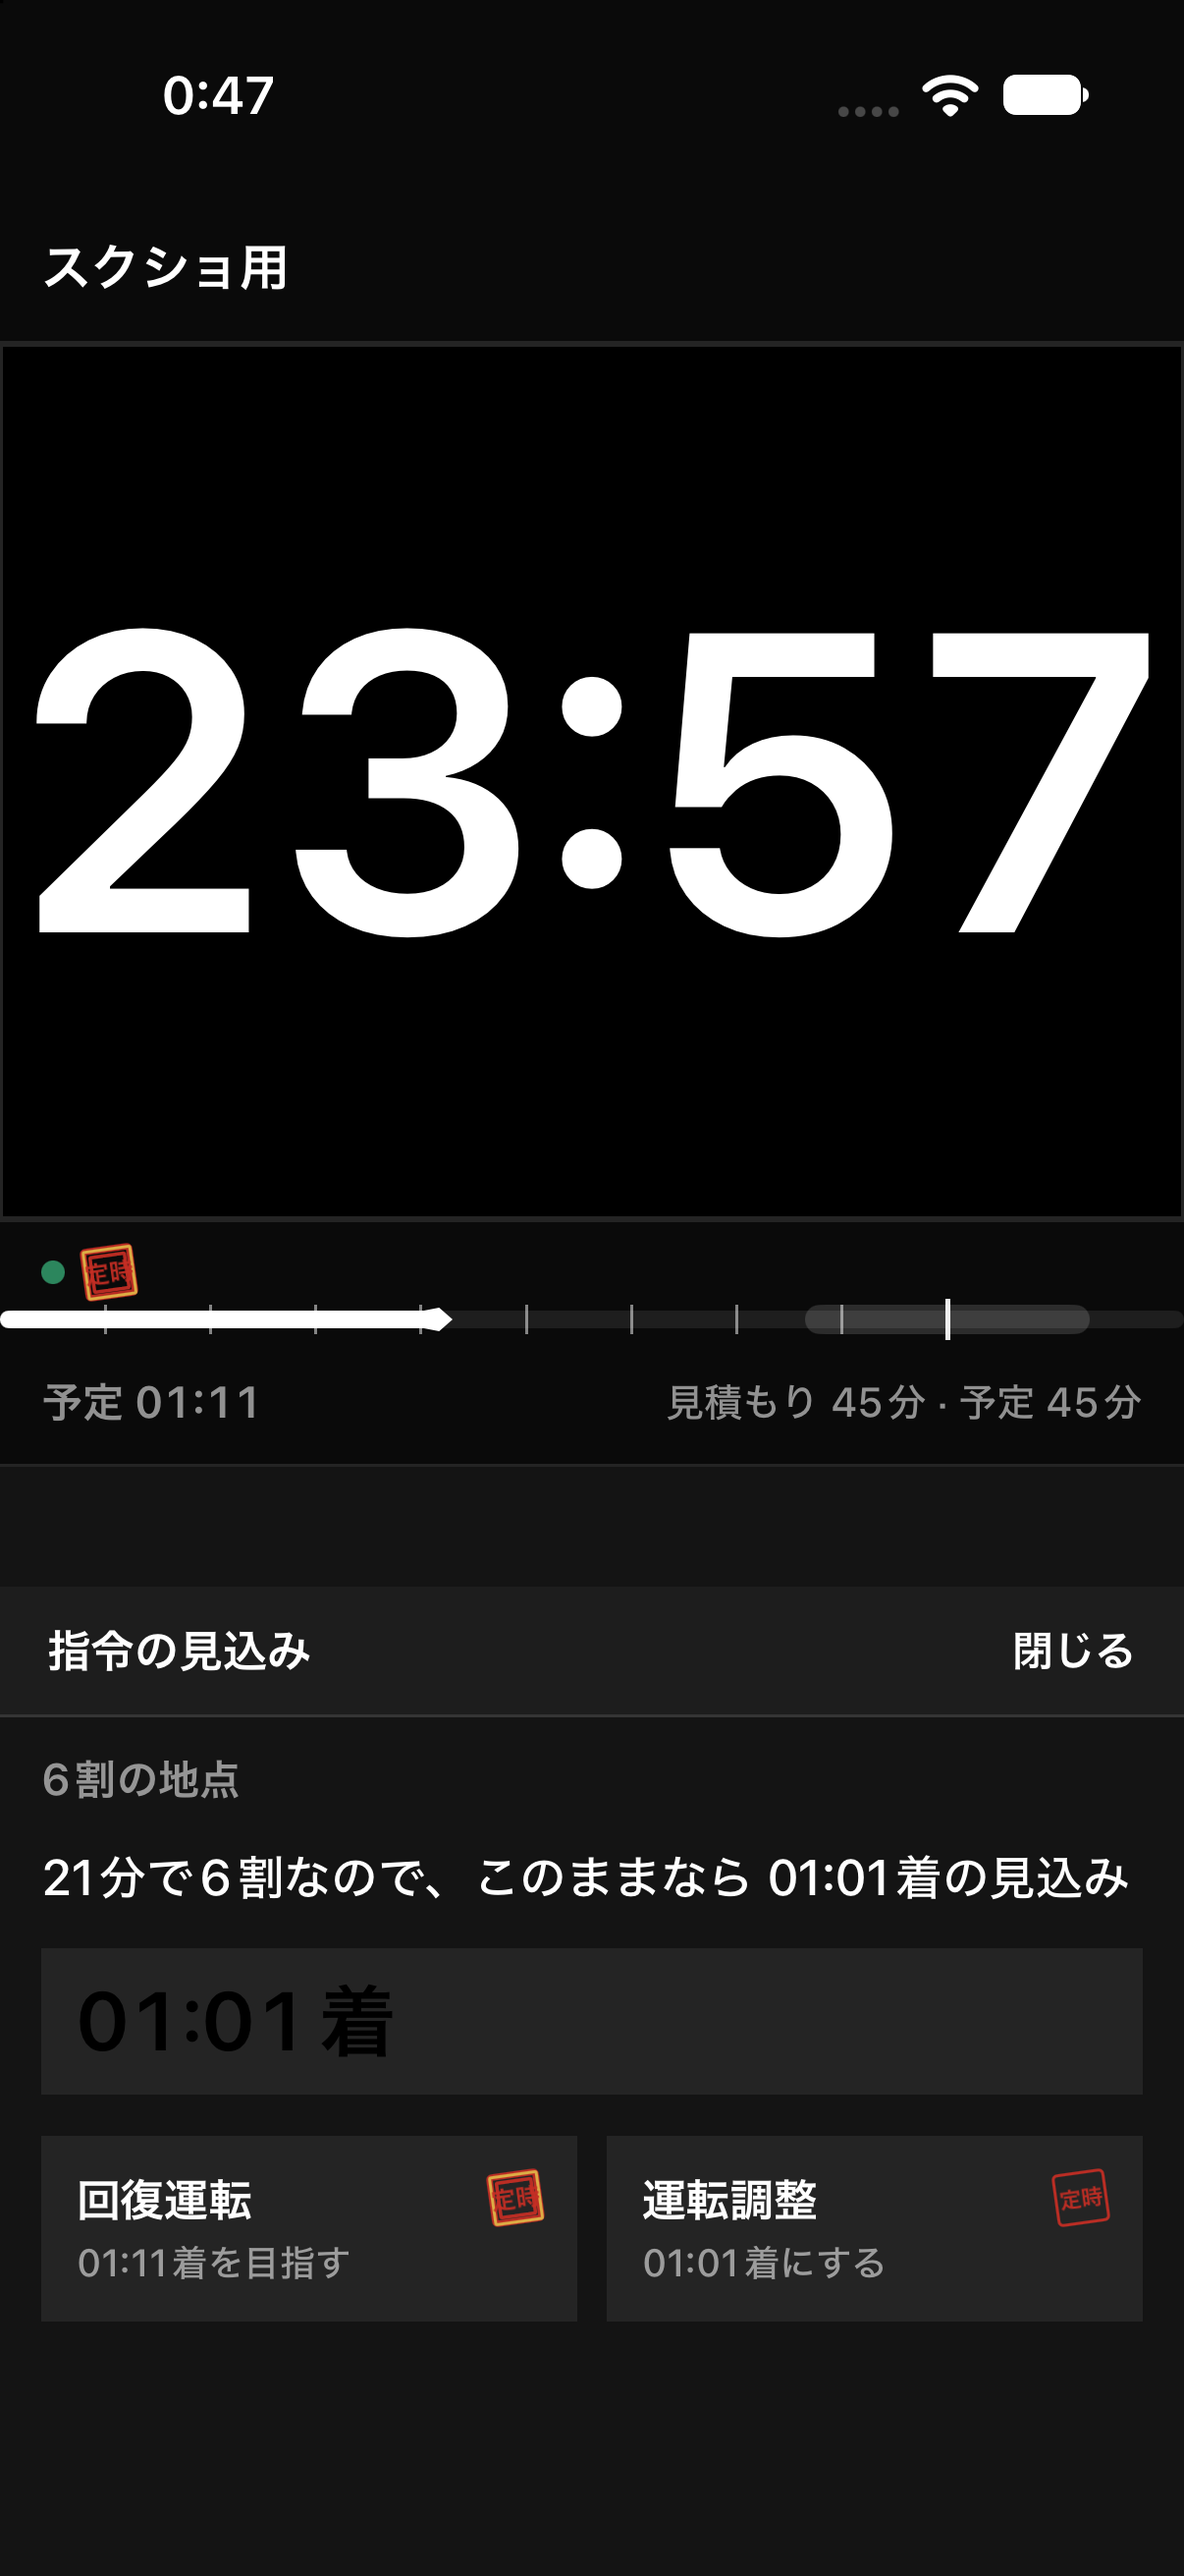
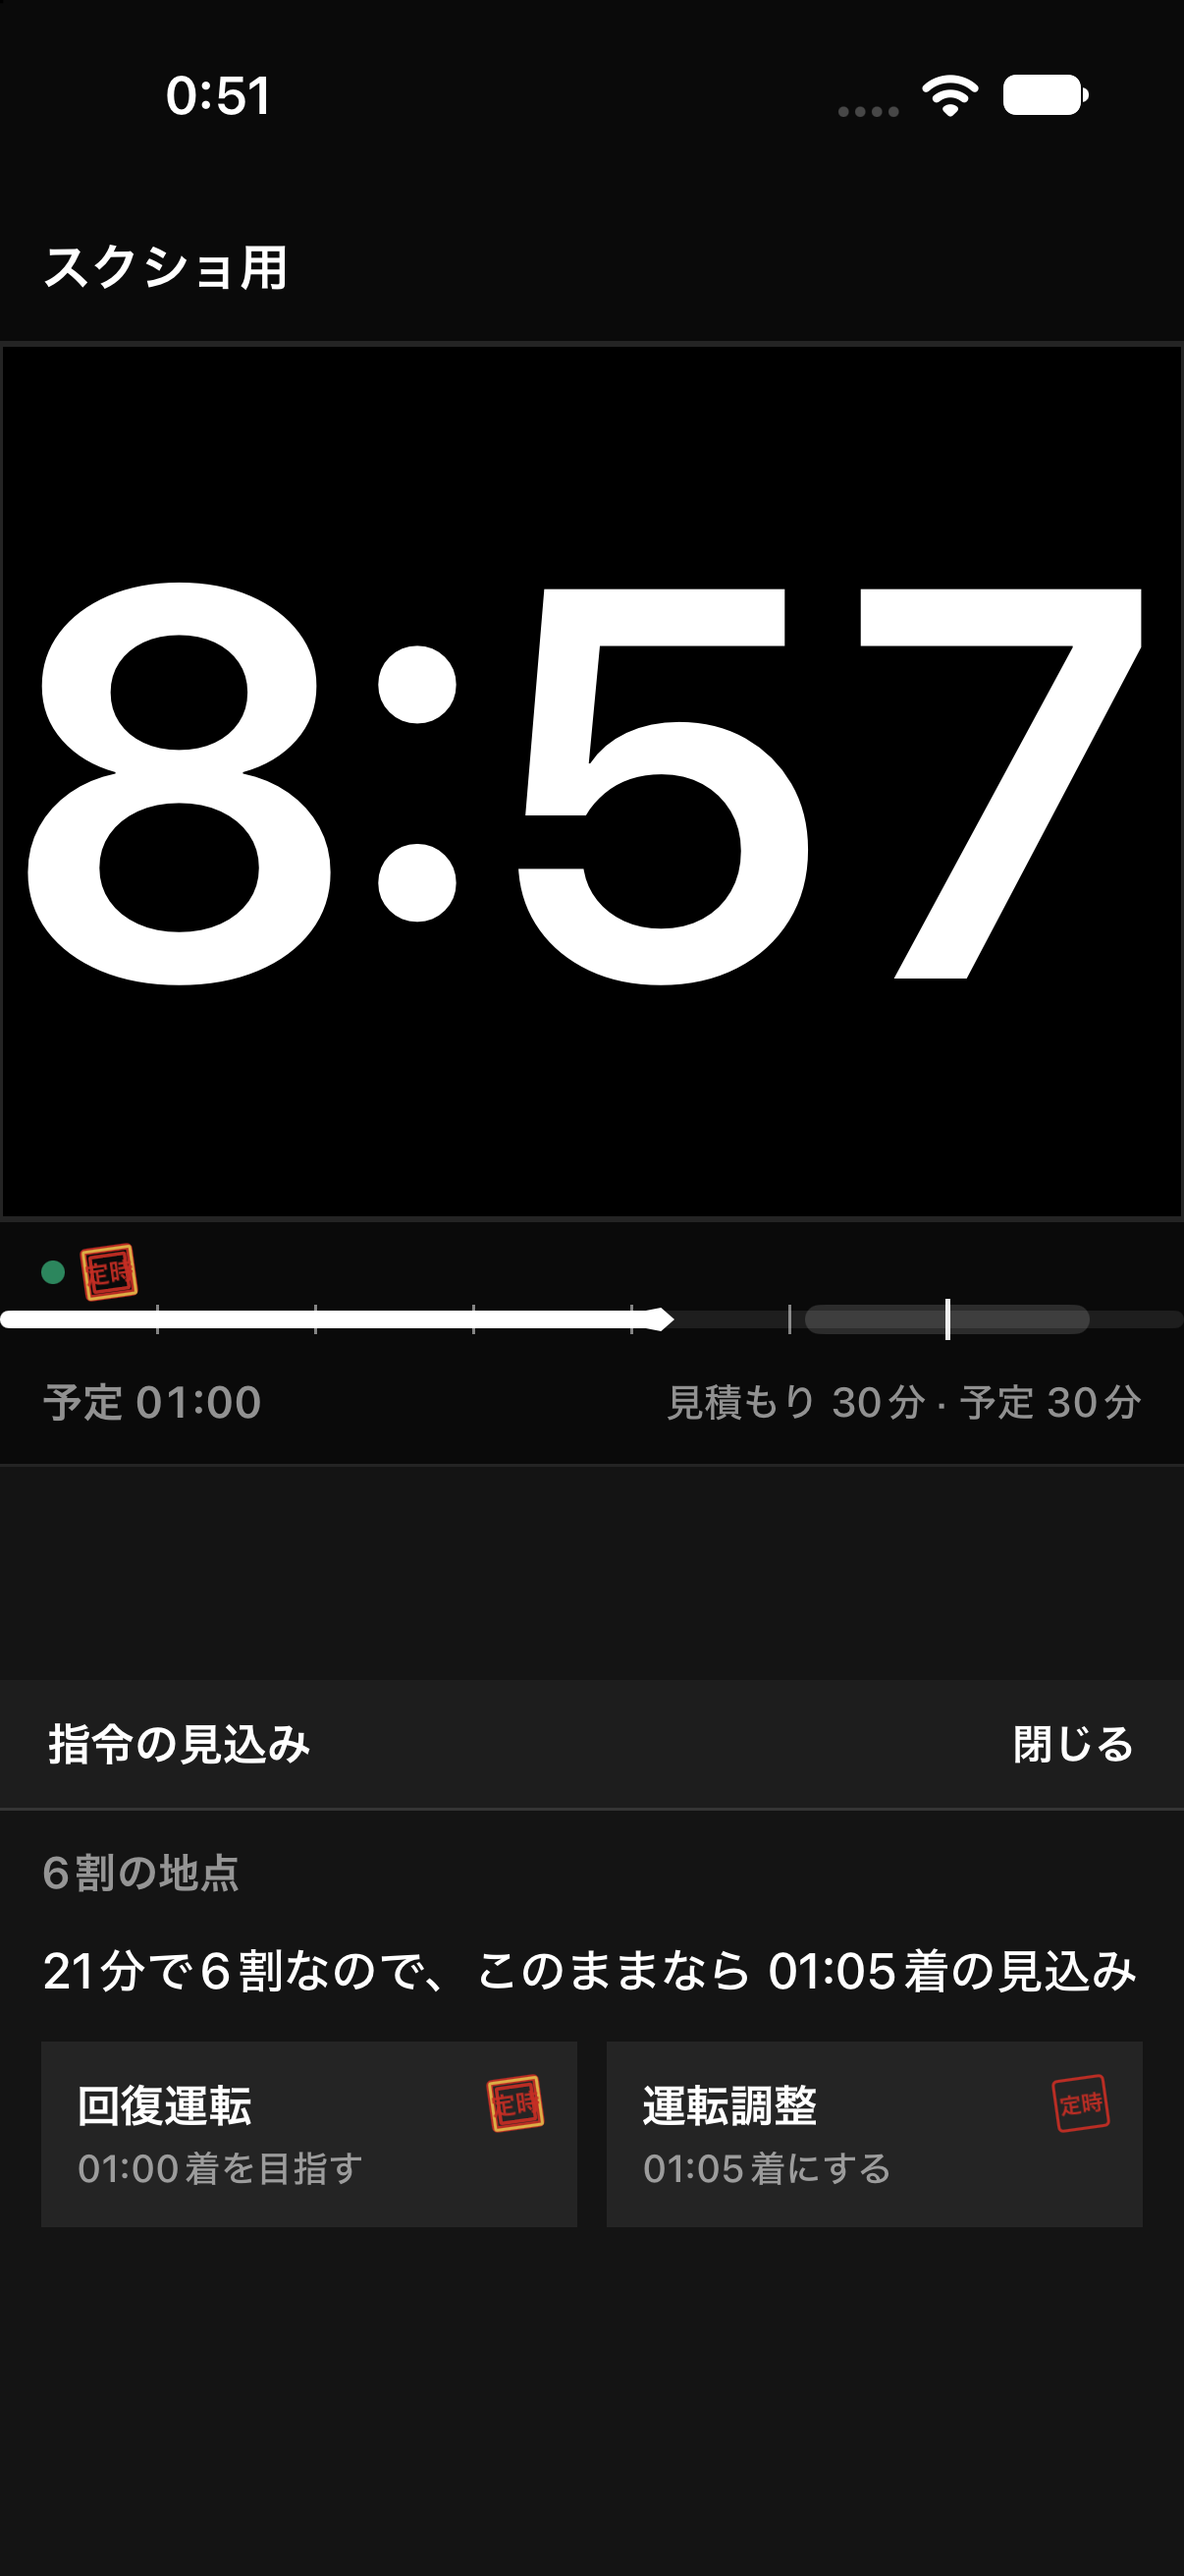
fix(focus): hide recovery in overtime and trim declare UI
Add PositionReport.showsRecoveryDeclaration for past-original-schedule
checks, use original scheduled arrival for recovery captions, drop the
duplicate projected time plate, and set declare preview to 30min/35min.

diff --git a/Todo train/Features/Focus/FocusReestimatePanel.swift b/Todo train/Features/Focus/FocusReestimatePanel.swift
@@ -10,6 +10,7 @@ import TodoTrainTicketUI
 struct FocusReestimatePanel: View {
     let activeSeconds: TimeInterval
     let remainingSeconds: TimeInterval
+    let plannedBudgetSeconds: Int
     let judgment: PunctualityJudgment.Judgment
     let recoverySealLuxury: Double?
     let now: Date
@@ -33,6 +34,7 @@ struct FocusReestimatePanel: View {
     init(
         activeSeconds: TimeInterval,
         remainingSeconds: TimeInterval,
+        plannedBudgetSeconds: Int,
         judgment: PunctualityJudgment.Judgment,
         recoverySealLuxury: Double?,
         now: Date,
@@ -43,6 +45,7 @@ struct FocusReestimatePanel: View {
     ) {
         self.activeSeconds = activeSeconds
         self.remainingSeconds = remainingSeconds
+        self.plannedBudgetSeconds = plannedBudgetSeconds
         self.judgment = judgment
         self.recoverySealLuxury = recoverySealLuxury
         self.now = now
@@ -180,16 +183,24 @@ struct FocusReestimatePanel: View {
                 ))
                 .font(.body.weight(.medium))
                 .foregroundStyle(FocusPanel.ink)
+                .accessibilityHint("走行時間と答えた割合から出した見込みです。")
 
-                projectedArrivalPlate(projectedArrival)
-
-                HStack(spacing: 10) {
-                    declarationCell(
-                        title: "回復運転",
-                        caption: PositionReportWording.recoveryCaption(arrival: scheduledArrival),
-                        sealLuxury: recoverySealLuxury,
-                        action: { commit(.recovery) }
-                    )
+                if showsRecoveryOption {
+                    HStack(spacing: 10) {
+                        declarationCell(
+                            title: "回復運転",
+                            caption: PositionReportWording.recoveryCaption(arrival: originalScheduledArrival),
+                            sealLuxury: recoverySealLuxury,
+                            action: { commit(.recovery) }
+                        )
+                        declarationCell(
+                            title: "運転調整",
+                            caption: PositionReportWording.adjustCaption(arrival: projectedArrival),
+                            sealLuxury: PositionReport.adjustLuxuryPreview(progress: progressAnswer),
+                            action: { commit(.adjust) }
+                        )
+                    }
+                } else {
                     declarationCell(
                         title: "運転調整",
                         caption: PositionReportWording.adjustCaption(arrival: projectedArrival),
@@ -205,20 +216,11 @@ struct FocusReestimatePanel: View {
         }
     }
 
-    private func projectedArrivalPlate(_ arrival: Date) -> some View {
-        let formatter = DateFormatter()
-        formatter.locale = Locale(identifier: "ja_JP")
-        formatter.dateFormat = "HH:mm"
-        let label = "\(formatter.string(from: arrival))着"
-        return Text(label)
-            .font(.system(size: 28, weight: .semibold, design: .default))
-            .monospacedDigit()
-            .frame(maxWidth: .infinity, alignment: .leading)
-            .padding(.vertical, 8)
-            .padding(.horizontal, 12)
-            .background(FocusPanel.fillRaised)
-            .accessibilityLabel(label)
-            .accessibilityHint("走行時間と答えた割合から出した見込みです。")
+    private var showsRecoveryOption: Bool {
+        PositionReport.showsRecoveryDeclaration(
+            activeSeconds: activeSeconds,
+            plannedBudgetSeconds: plannedBudgetSeconds
+        )
     }
 
     private func declarationCell(
@@ -267,8 +269,9 @@ struct FocusReestimatePanel: View {
         }
     }
 
-    private var scheduledArrival: Date {
-        now.addingTimeInterval(max(0, remainingSeconds))
+    /// いまの予定着（回復運転の副題）。超過中は過去の元着時刻のまま。
+    private var originalScheduledArrival: Date {
+        now.addingTimeInterval(remainingSeconds)
     }
 
     private func handlePositionCommitted() {

diff --git a/Packages/TodoTrainSync/Tests/TodoTrainSyncTests/PositionReportTests.swift b/Packages/TodoTrainSync/Tests/TodoTrainSyncTests/PositionReportTests.swift
@@ -37,4 +37,34 @@ struct PositionReportTests {
         #expect(preview == committed)
         #expect(preview == 0.36)
     }
+
+    @Test func showsRecoveryDeclaration_beforeOriginalScheduledArrival() {
+        #expect(
+            PositionReport.showsRecoveryDeclaration(
+                activeSeconds: 21 * 60,
+                plannedBudgetSeconds: 30 * 60
+            )
+        )
+        #expect(
+            PositionReport.showsRecoveryDeclaration(
+                activeSeconds: 29 * 60 + 59,
+                plannedBudgetSeconds: 30 * 60
+            )
+        )
+    }
+
+    @Test func showsRecoveryDeclaration_hidesAfterOriginalScheduledArrival() {
+        #expect(
+            !PositionReport.showsRecoveryDeclaration(
+                activeSeconds: 30 * 60,
+                plannedBudgetSeconds: 30 * 60
+            )
+        )
+        #expect(
+            !PositionReport.showsRecoveryDeclaration(
+                activeSeconds: 34 * 60,
+                plannedBudgetSeconds: 30 * 60
+            )
+        )
+    }
 }

diff --git a/Todo train/Features/Focus/FocusUIPreview.swift b/Todo train/Features/Focus/FocusUIPreview.swift
@@ -101,8 +101,8 @@ enum FocusUIPreview {
             manager.uiPreviewForcesFocusCover = true
 
         case "positionReportDeclare":
-            session.estimatedSecondsAtStart = 45 * 60
-            session.currentBudgetSeconds = 45 * 60
+            session.estimatedSecondsAtStart = 30 * 60
+            session.currentBudgetSeconds = 30 * 60
             session.accumulatedActiveSeconds = 21 * 60
             manager.presentReestimate(trigger: .manual, surface: .iphonePortrait)
             manager.focusReestimatePreview = FocusReestimatePreviewConfiguration(

diff --git a/Packages/TodoTrainSync/Sources/TodoTrainSync/PositionReport.swift b/Packages/TodoTrainSync/Sources/TodoTrainSync/PositionReport.swift
@@ -16,4 +16,13 @@ public enum PositionReport: Sendable {
         let raw = PunctualityJudgment.adjustCeiling * (1 - p)
         return (raw * 100).rounded() / 100
     }
+
+    /// 元の到着予定を過ぎていなければ回復運転を出す（超過中は運転調整のみ）。
+    public static func showsRecoveryDeclaration(
+        activeSeconds: TimeInterval,
+        plannedBudgetSeconds: Int
+    ) -> Bool {
+        guard plannedBudgetSeconds > 0 else { return false }
+        return activeSeconds < TimeInterval(plannedBudgetSeconds)
+    }
 }

diff --git a/Todo train/Features/Focus/FocusView.swift b/Todo train/Features/Focus/FocusView.swift
@@ -343,6 +343,7 @@ struct FocusView: View {
                 FocusReestimatePanel(
                     activeSeconds: sessionManager.activeSession?.elapsedSeconds(at: .now) ?? 0,
                     remainingSeconds: sessionManager.remainingSeconds,
+                    plannedBudgetSeconds: sessionManager.activeSession?.activeBudgetSeconds ?? 1,
                     judgment: {
                         guard let session = sessionManager.activeSession else {
                             return PunctualityJudgment.judge(
